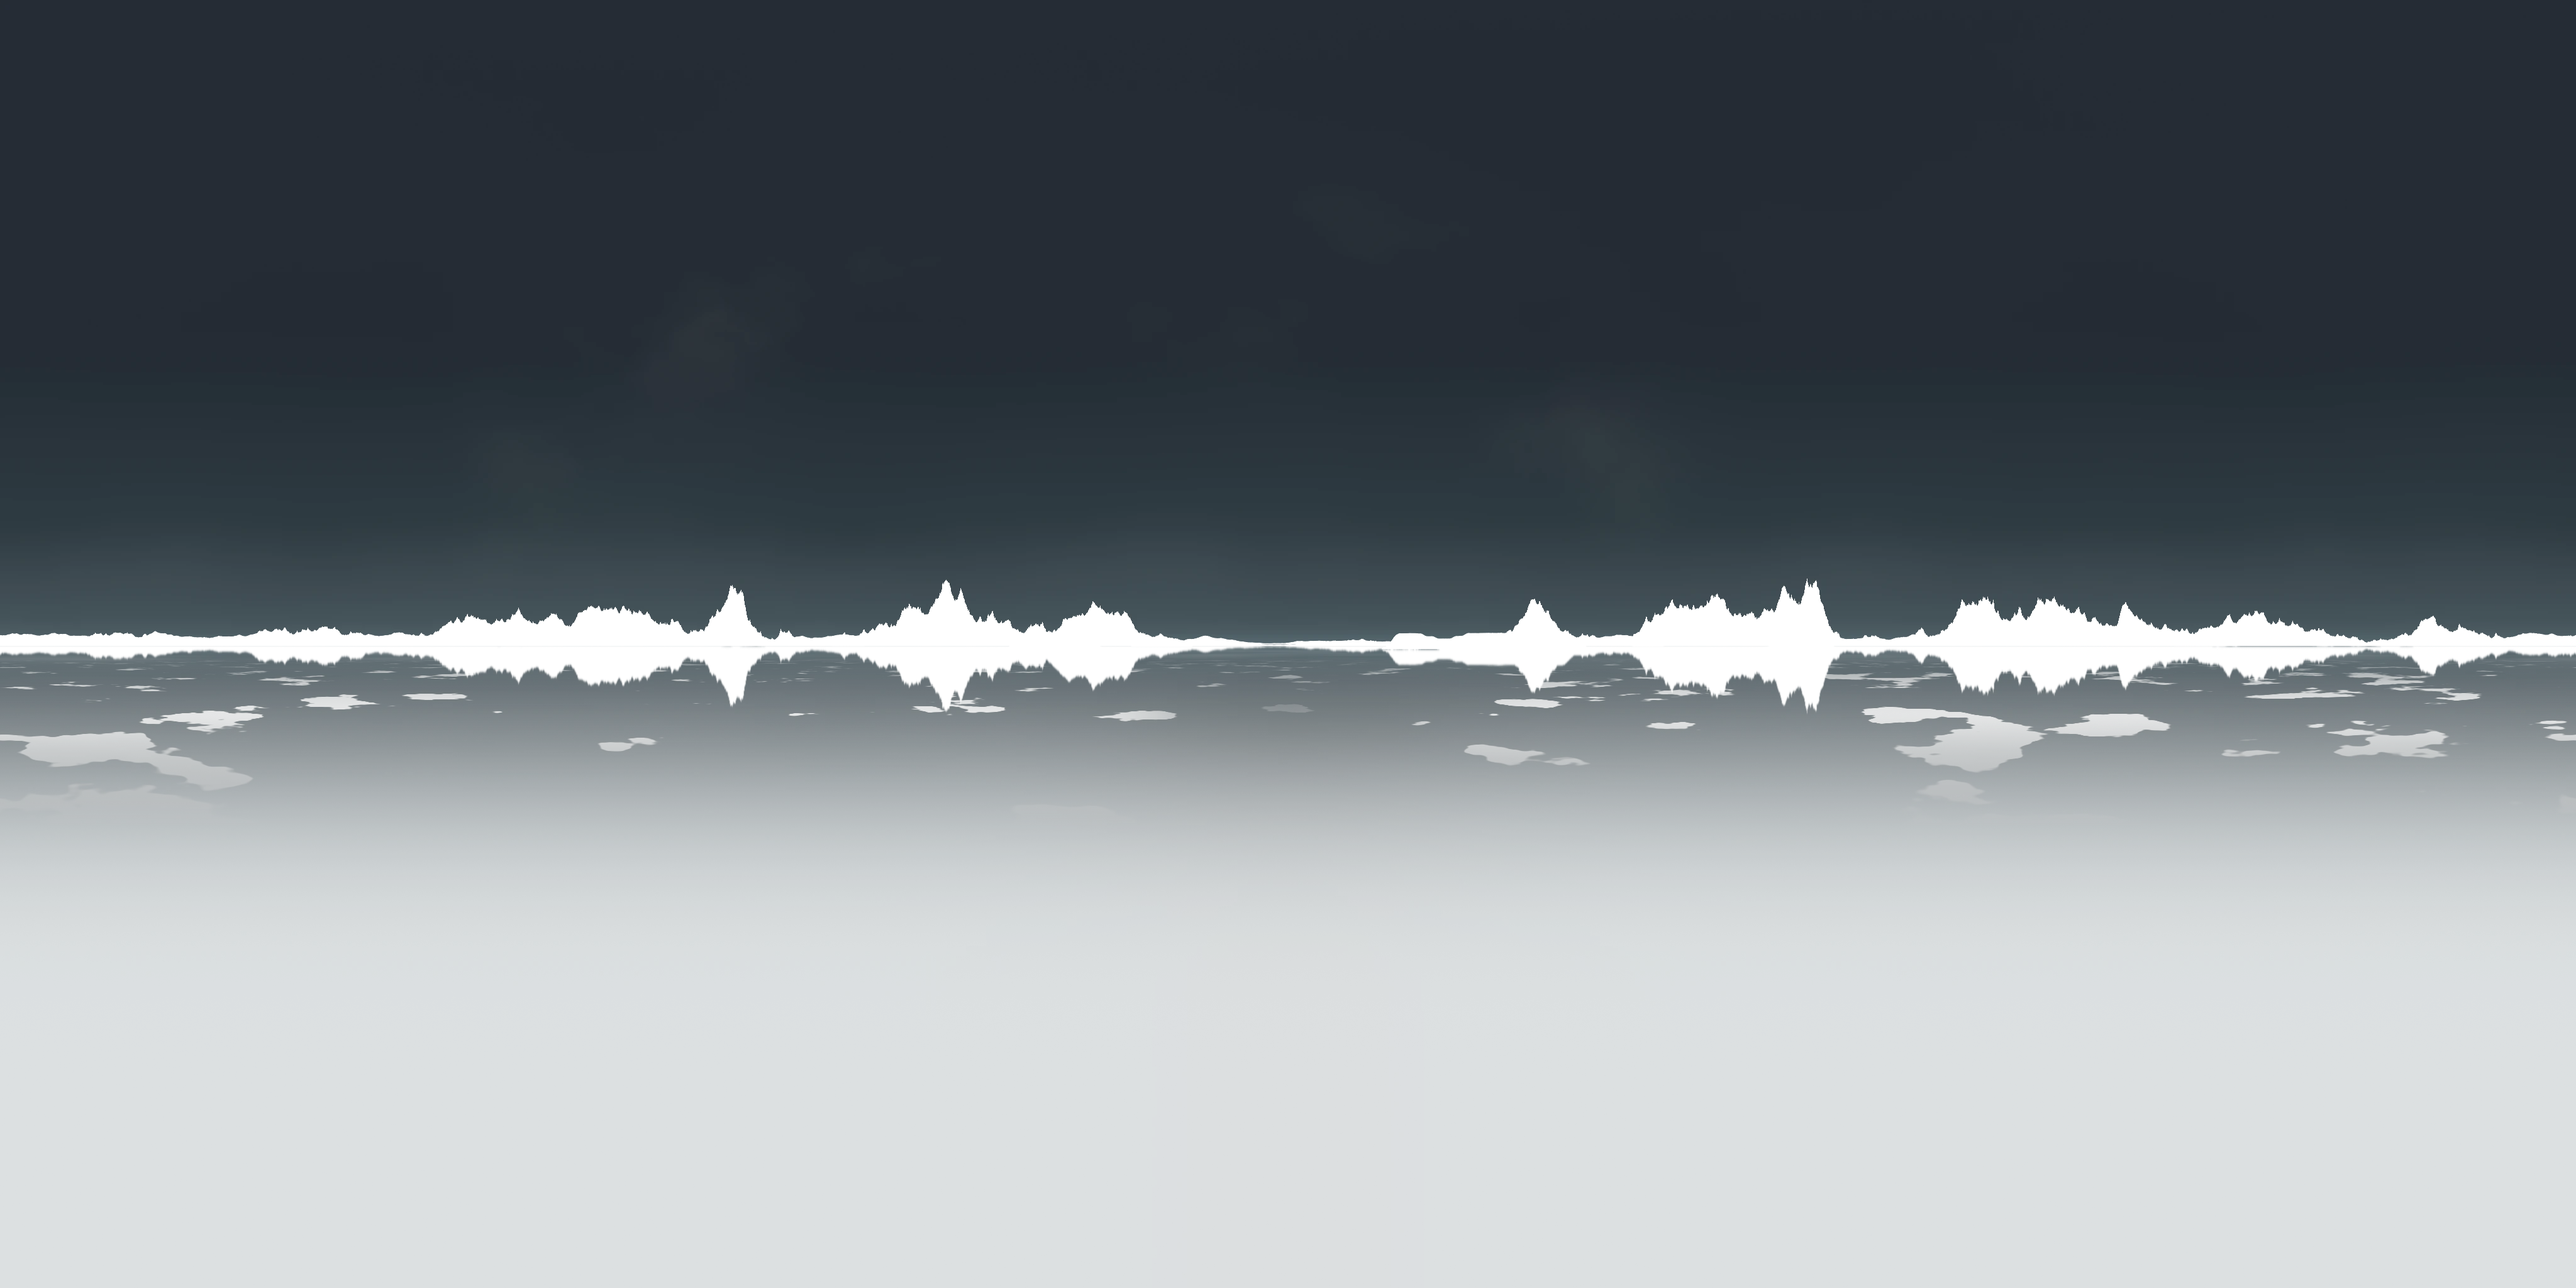
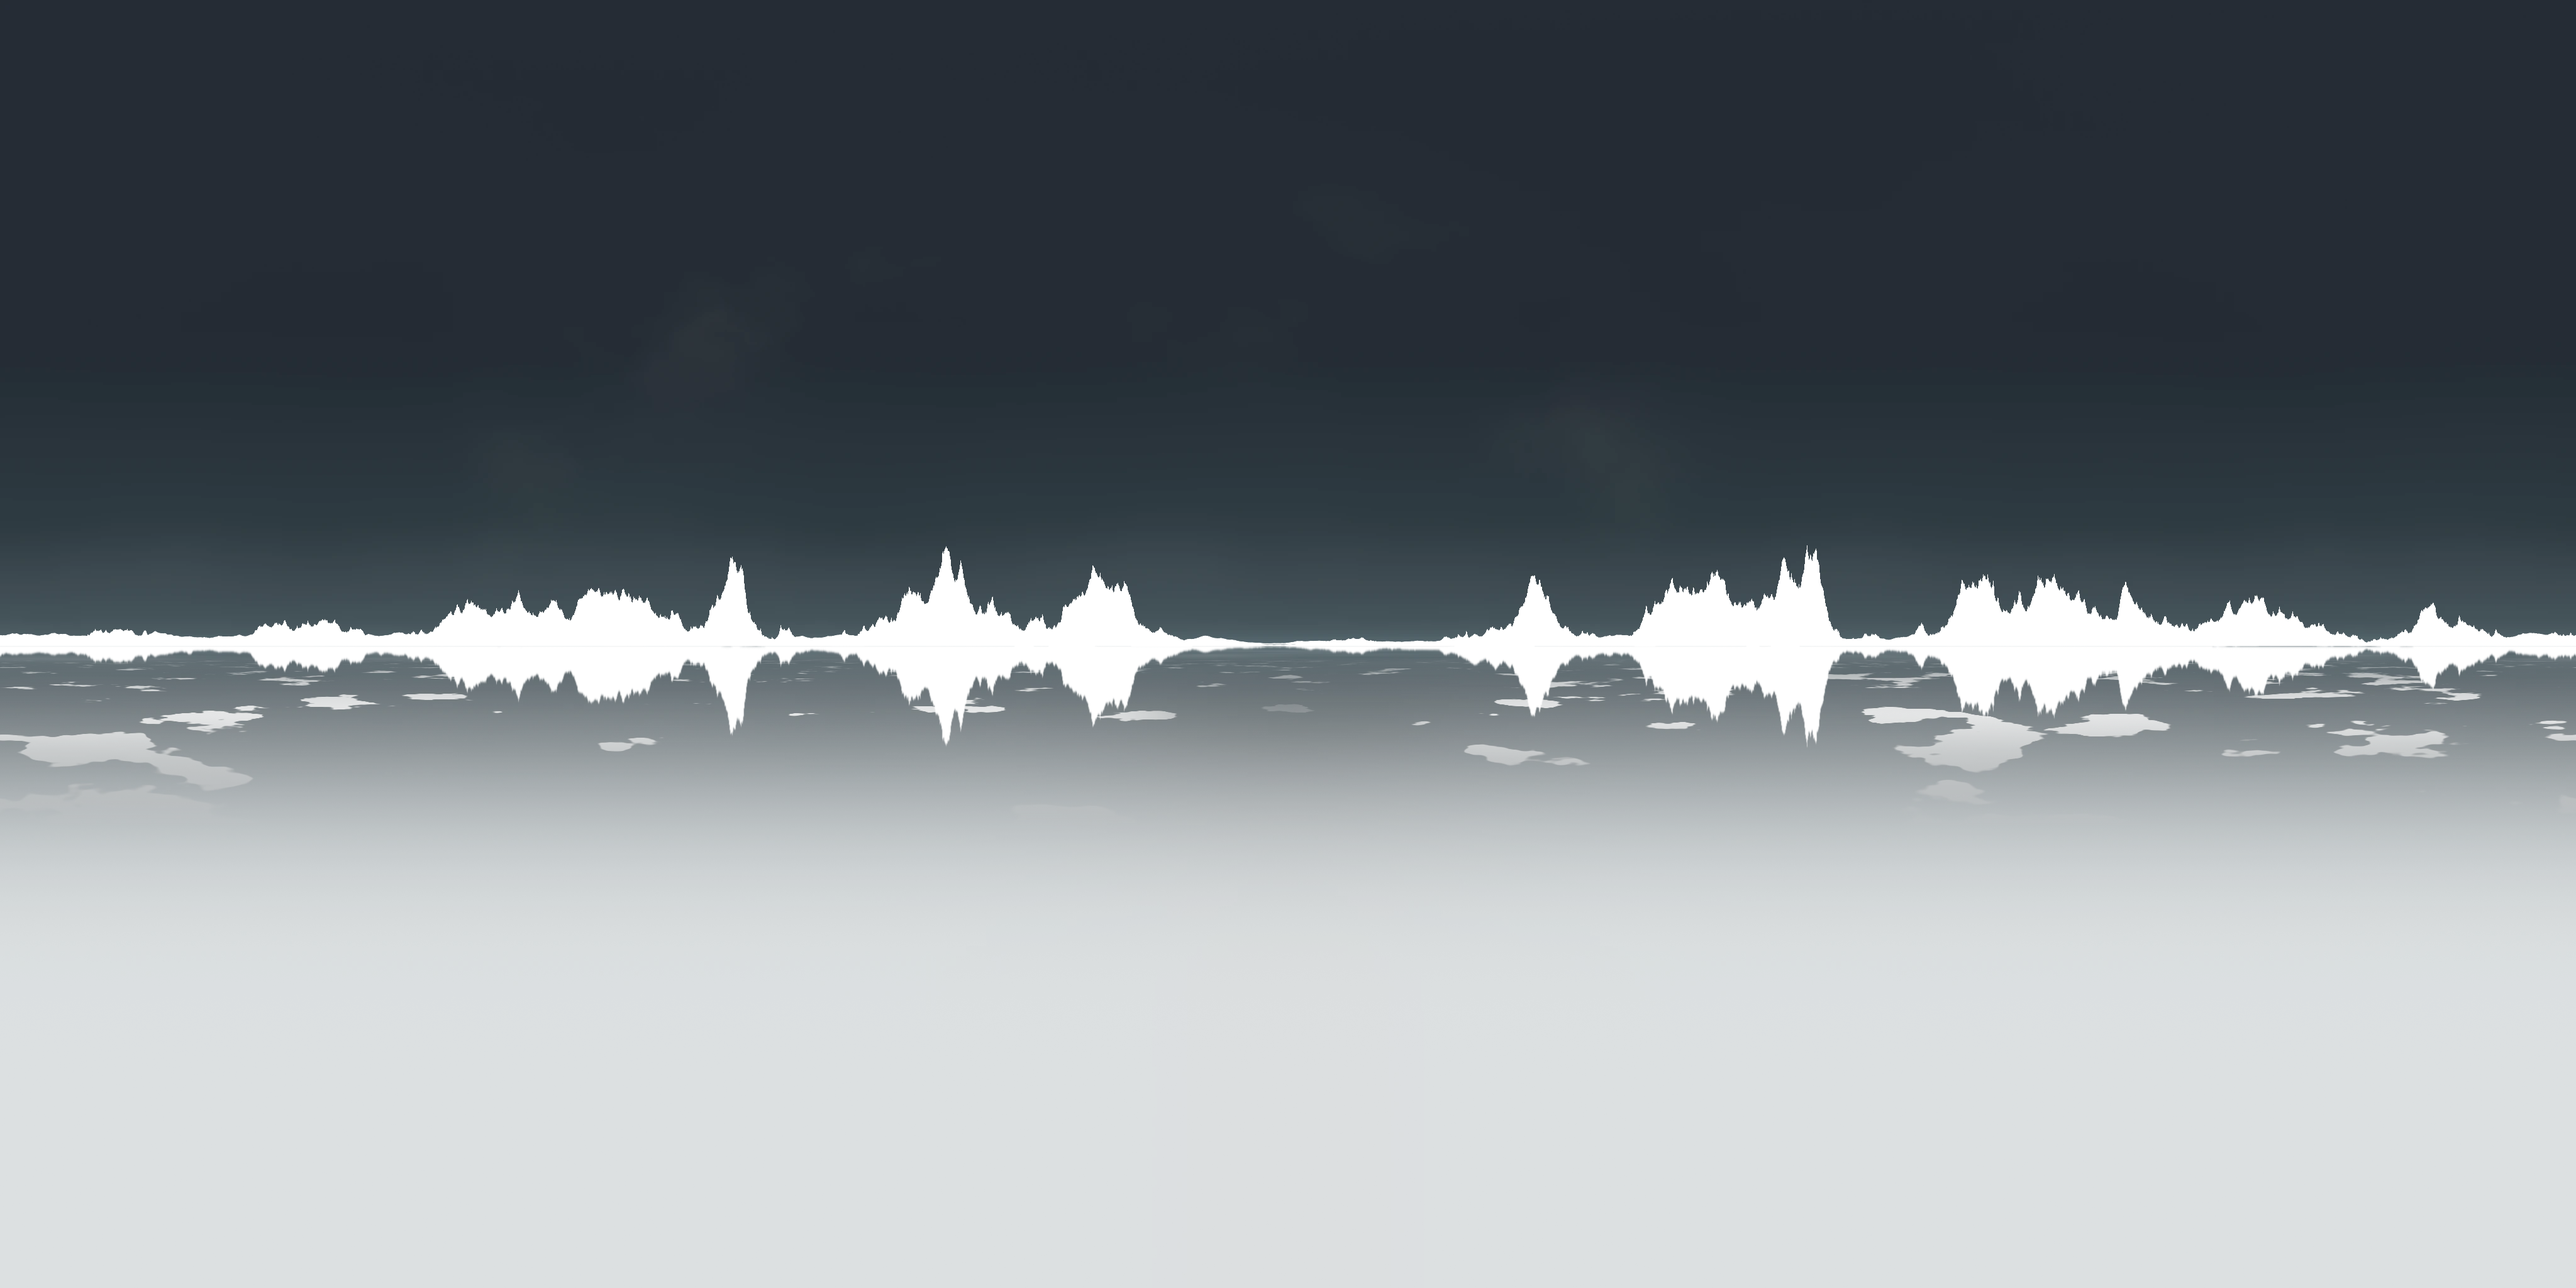
theme-aurora: Frost-Massiv hoeher, spitzere Eisberge, Stern-Extinktion am Horizont

diff --git a/tools/gen_theme_aurora.py b/tools/gen_theme_aurora.py
@@ -301,7 +301,7 @@ def scene(W, H, seed):
     bergs = [
         (-148, 5200, 46, 260, "tabular"), (-118, 3800, 30, 120, "peak"), (-92, 6400, 38, 420, "tabular"),
         (-63, 2600, 34, 120, "peak"), (-33, 900, 70, 140, "peak"), (-19, 2200, 26, 160, "tabular"),
-        (-8, 7000, 20, 220, "tabular"), (13, 5600, 16, 110, "peak"), (29, 1100, 44, 280, "tabular"),
+        (-8, 7000, 20, 220, "tabular"), (13, 5600, 16, 110, "peak"), (31, 1000, 52, 170, "peak"), (20, 2800, 30, 240, "tabular"),
         (50, 2300, 36, 110, "peak"), (72, 1500, 58, 200, "peak"), (98, 4800, 40, 380, "tabular"),
         (131, 2600, 52, 220, "peak"), (160, 4400, 30, 260, "tabular"), (178, 3000, 26, 120, "dome"),
     ]
